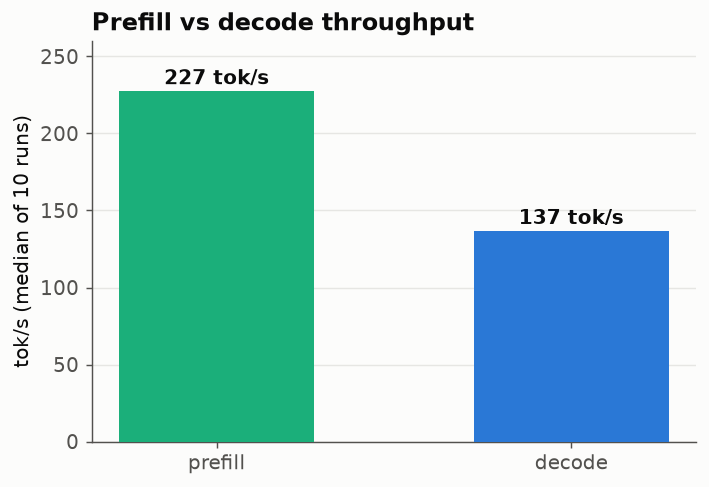
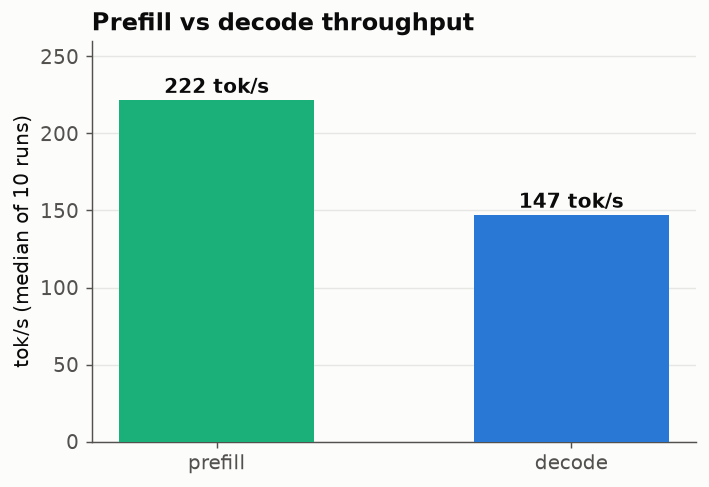
docs(glcuda): refine benchmark with 50-run distribution
Definitive throughput pass: 50 runs on the warmed T4, run 1 dropped.
Decode P50 147.1 tok/s (P95 149.9, sigma 5.1) with a brief thermal
throttle dip to ~133 at runs 15-21 that self-recovers; prefill P50
221.7 (sigma 2.2). Report as a distribution per ArchGLML_X2 section 22,
not a peak. Graph 1 now shows all 50 runs with the P50 line and the
throttle dip annotated.

Changed region(s): [[0.6516, 0.4004, 0.9619, 0.4928], [0.1551, 0.1232, 0.4654, 0.2156]]

diff --git a/docs/ArchGLCuda/gen_graphs.py b/docs/ArchGLCuda/gen_graphs.py
@@ -60,28 +60,38 @@ decode_a = [107.7, 110.8, 105.4, 102.0, 101.8, 102.1, 102.7, 98.5, 102.7, 111.3]
 decode_b = [128.0, 135.4, 136.0, 137.1, 134.6, 136.0, 142.6, 149.5, 151.0, 149.5]  # warmed session
 prefill_b = [183.8, 229.4, 226.9, 228.2, 223.0, 227.5, 227.2, 227.6, 230.2, 227.1]
 
+# Definitive 50-run pass (warmed). Decode P50 147, P95 150; a brief dip to
+# ~133 at runs 15-21 is a thermal/clock throttle that recovers. Prefill is
+# rock-steady at ~222 (stdev 2.2).
+run50 = list(range(1, 51))
+decode50 = [140.8,149.8,149.9,149.2,148.1,150.4,144.1,148.1,145.3,145.9,147.1,147.5,148.4,142.2,133.3,132.9,132.4,134.1,134.4,133.6,134.4,149.9,146.2,146.8,149.4,148.3,146.0,149.3,148.1,145.9,147.4,146.6,146.9,148.2,147.8,147.8,147.1,147.8,147.5,146.8,146.5,145.6,143.8,147.6,148.4,147.0,147.5,148.6,146.1,145.2]
+prefill50 = [191.1,224.6,224.3,223.9,224.4,223.2,224.1,223.4,223.2,224.5,223.9,222.5,222.7,222.4,220.8,216.4,230.9,223.8,223.1,223.0,217.3,223.8,220.6,222.1,221.8,222.1,220.9,221.7,221.3,221.1,221.5,220.7,220.8,222.5,220.9,221.1,221.7,221.2,222.0,220.1,221.0,220.7,220.8,222.5,220.9,221.1,221.7,217.7,219.8,220.8]
+
 # ==========================================================================
-# GRAPH 1 — decode tok/s across runs (warmup curve)
+# GRAPH 1 — decode tok/s across 50 runs (distribution + throttle dip)
 # ==========================================================================
 def graph_decode_runs():
-    fig, ax = plt.subplots(figsize=(7.2, 4.0))
+    import statistics as st
+    p50 = st.median(decode50[1:])  # drop warmup run 1
+    fig, ax = plt.subplots(figsize=(7.6, 4.0))
     style(ax)
-    ax.plot(run_idx, decode_b, color=BLUE, linewidth=2, marker="o", markersize=6,
-            zorder=3, label="warmed session")
-    ax.plot(run_idx, decode_a, color=YELLOW, linewidth=2, marker="s", markersize=5,
-            zorder=2, label="cold session")
-    # direct labels at the last point of each
-    ax.annotate(f"{decode_b[-1]:.0f}", (run_idx[-1], decode_b[-1]),
-                textcoords="offset points", xytext=(8, 2), color=BLUE, fontweight="bold")
-    ax.annotate(f"{decode_a[-1]:.0f}", (run_idx[-1], decode_a[-1]),
-                textcoords="offset points", xytext=(8, -4), color="#b87c00")
+    ax.plot(run50, decode50, color=BLUE, linewidth=1.8, marker="o", markersize=4,
+            zorder=3, label="decode (50 runs)")
+    ax.axhline(p50, color=INK2, linewidth=1, linestyle=(0, (4, 3)), zorder=2)
+    ax.annotate(f"P50 = {p50:.0f} tok/s", (1, p50), textcoords="offset points",
+                xytext=(2, 5), color=INK2, fontsize=10)
+    # call out the throttle dip
+    ax.annotate("thermal/clock\nthrottle, recovers", (18, 132.4),
+                textcoords="offset points", xytext=(6, -34), color="#b87c00",
+                fontsize=9, ha="left",
+                arrowprops=dict(arrowstyle="-", color="#b87c00", linewidth=0.8))
     ax.set_xlabel("run #")
     ax.set_ylabel("decode tok/s")
-    ax.set_title("Decode throughput per run (Tesla T4, Qwen2.5-0.5B Q8_0)",
+    ax.set_title("Decode throughput, 50 runs (Tesla T4, Qwen2.5-0.5B Q8_0)",
                  fontweight="bold", loc="left", color=INK)
-    ax.xaxis.set_major_locator(MultipleLocator(1))
-    ax.set_ylim(90, 165)
-    ax.legend(frameon=False, loc="upper left")
+    ax.xaxis.set_major_locator(MultipleLocator(5))
+    ax.set_ylim(125, 155)
+    ax.legend(frameon=False, loc="lower right")
     fig.savefig(os.path.join(OUT, "benchmark_img1.png"))
     plt.close(fig)
     print("wrote benchmark_img1.png")
@@ -94,7 +104,7 @@ def graph_prefill_vs_decode():
     fig, ax = plt.subplots(figsize=(6.0, 4.0))
     style(ax)
     labels = ["prefill", "decode"]
-    vals = [st.median(prefill_b), st.median(decode_b)]
+    vals = [st.median(prefill50[1:]), st.median(decode50[1:])]
     colors = [AQUA, BLUE]
     bars = ax.bar(labels, vals, color=colors, width=0.55, zorder=3)
     for b, v in zip(bars, vals):
@@ -116,7 +126,8 @@ def graph_ceiling():
     style(ax)
     # weights streamed per token ~ 0.5 GB (Q8_0 0.5B). T4 peak BW 320 GB/s,
     # achievable typically ~0.8x. Decode = weight stream once per token.
-    measured = 150.0                     # best steady decode
+    import statistics as st
+    measured = st.median(decode50[1:])   # P50 steady decode (147)
     bw_peak_max = 320 / 0.5              # 640 tok/s at peak bandwidth
     bw_real_max = 256 / 0.5             # ~512 tok/s at ~80% achievable
     labels = ["measured\n(now)", "achievable-BW\nceiling (~80%)", "peak-BW\nceiling"]

diff --git a/docs/ArchGLCuda/BENCHMARK_ArchGLCuda.md b/docs/ArchGLCuda/BENCHMARK_ArchGLCuda.md
@@ -31,6 +31,7 @@ python docs/ArchGLCuda/gen_graphs.py
 | Load time | ~0.76 s (tokenizer 0.10 + stage 0.41 + upload 0.18) |
 | Prompt | 29 tokens (ChatML-wrapped) |
 | Sampling | temperature 0.7, top-k 40, top-p 0.95, repeat-penalty 1.1 |
+| Protocol | 50 runs of 128-token generation, run 1 discarded as warmup |
 | Build | `--release` |
 
 Reproduce with `glcuda_t4_validation.ipynb` (§8 runs the model, §9 the
@@ -40,26 +41,34 @@ microbenchmark).
 
 ## Throughput
 
-### Decode warms up
+### Decode: 50-run distribution
 
-Decode tok/s is not flat run-to-run — it ramps over the first several runs as
-caches and clocks warm, then settles. The two sessions below are the same
-binary on the same T4; the "warmed" session had the GPU already hot.
+Reported as a distribution, not a peak (ArchGLML_X2 §22). Warmed T4, 50 runs of
+128-token generation, run 1 discarded as warmup:
 
-![decode throughput per run](benchmark_img1.png)
+| Metric | Decode | Prefill |
+|---|---|---|
+| **P50 (median)** | **147.1 tok/s** | **221.7 tok/s** |
+| P95 | 149.9 | 224.5 |
+| P99 | 150.2 | — |
+| min | 132.4 | 216.4 |
+| max | 150.4 | 230.9 |
+| stdev | 5.1 | 2.2 |
 
-Steady-state decode lands around **150 tok/s**; a cold GPU starts nearer
-**105–110 tok/s**. Always discard warmup runs when quoting a number (the
-benchmark protocol in ArchGLML_X2 §22 says exactly this).
+![decode throughput, 50 runs](benchmark_img1.png)
+
+Decode is tight (σ 5.1) around **147 tok/s**, except a dip to ~133 across runs
+15–21 — a thermal/clock throttle on the shared Colab T4 that recovers on its
+own. Prefill is rock-steady (σ 2.2). A cold GPU starts nearer 105–110; always
+discard warmup.
 
 ### Prefill vs decode
 
 ![prefill vs decode](benchmark_img2.png)
 
-Prefill (~227 tok/s) is faster than decode (~150 tok/s) because prompt tokens
-are processed with the weights already resident and warm, and prefill does not
-pay the per-token host round-trip that decode does. Reported separately on
-purpose — blending them hides the real decode speed.
+Prefill (~222 tok/s) outpaces decode (~147 tok/s): prompt tokens run with the
+weights already warm and skip the per-token host round-trip that decode pays.
+Reported separately on purpose — blending them hides the real decode speed.
 
 ---
 
@@ -76,9 +85,9 @@ memory bandwidth**.
 |---|---|---|
 | Peak bandwidth | ~640 | 320 GB/s / 0.5 GB per token |
 | Achievable (~80%) | ~512 | GDDR6 rarely sustains peak |
-| **Measured (now)** | **~150** | steady-state decode |
+| **Measured (P50)** | **147** | steady-state decode |
 
-That puts decode at roughly **29% of achievable bandwidth** — about a **3.4x**
+That puts decode at roughly **29% of achievable bandwidth** — about a **3.5x**
 headroom remaining. `nvidia-smi` reports ~22% GPU utilization during decode,
 consistent with the GPU being **idle most of the time**: the bottleneck is
 latency / serialization, not throughput.
